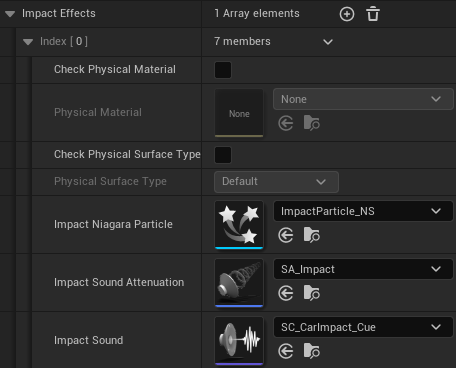
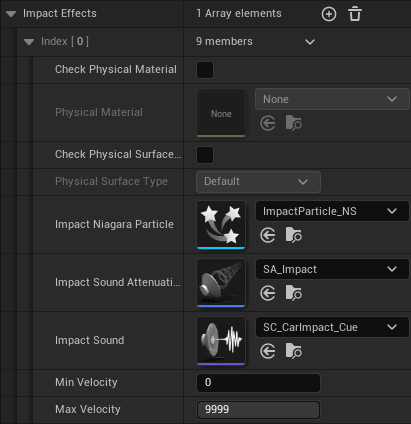
HitZone Event Images, Bugfix, Changelog

diff --git a/docs/guides/mesh-component/settings.md b/docs/guides/mesh-component/settings.md
@@ -157,7 +157,7 @@ This is the minimum velocity ($cm/s$) that's required to trigger a deformation. 
 from "eating into the mesh" when e.g. driving continuously against an object.
 
 ### Impact Effects (V 2.1) {#impact-effects}
-This setting can be used to play a **sound** (SFX) and/or to spawn a *niagara* **particle system** (VFX) on impact. You don't *have to* select a sound and a particle system - if you don't want to play a sound or spawn a particle system then just leave the properties empty or remove the whole impact effect. 
+This setting can be used to play a **sound** (SFX) and/or to spawn one or more *niagara* **particle systems** (VFX) on impact. You don't *have to* select a sound and a particle system - if you don't want to play a sound or spawn a particle system then just leave the properties empty or remove the whole impact effect. 
 
 :::info
 An *impact effect* with ``CheckPhysicalMaterial = False`` and ``CheckPhysicalSurfaceType = False`` (*see image below*) is used as the **default** impact effect, whenever no other impact effect was found for a physical material.
@@ -166,3 +166,9 @@ An *impact effect* with ``CheckPhysicalMaterial = False`` and ``CheckPhysicalSur
 You can define multiple *impact effects*. They are evaluated on impact. We select an impact effect by comparing the physical material of the component that we hit with the specified *physical material* or *physical surface type* of the impact effect.
 
 <img src={ImpactEffect} style={{maxWidth: "50%"}} />
+
+With the new parameters ``Min Velocity`` and ``Max Velocity``, you can set the speeds at which the effect should occur and when it should not.
+
+:::warning Version 2.1.5
+``Min Velocity`` and ``Max Velocity`` are new settings.
+:::

diff --git a/docs/advanced-guides/hit-zone.md b/docs/advanced-guides/hit-zone.md
@@ -12,6 +12,9 @@ import ExampleGroupsHierarchy from './img/hit-zone-ex-groups-hierarchy.png';
 import ExampleGroupsBoxSett from './img/hit-zone-ex-groups-box.png';
 import ExampleGroupsCompSett from './img/hit-zone-ex-groups-comp.png';
 
+import DetectedEvent from './img/hit-zone-detected.png';
+import AlertEvent from './img/hit-zone-alert.png';
+
 <img src={Component} />
 
 A **Hit Zone** can be used to detect hits on predefined areas of your mesh. This could be used for example to detect hits on the front of your vehicle and damage the motor accordingly.
@@ -51,14 +54,16 @@ If you want to use **one** Hit Zone for **multiple** *Deformable Mesh Components
 	- There were 3 hits, one 50% and two 25% hits... and so on.
 
 	Each new hit can add a maximum value of 1.0 (= hit with max hit deform),
-	because the ImpactStrength is capped by the DeformableMeshComponent Setting [Max Hit Deform Percentage](../guides/mesh-component/settings.md#max-hit-deform-percentage).
+	because the ``ImpactStrength`` is capped by the DeformableMeshComponent Setting [Max Hit Deform Percentage](../guides/mesh-component/settings.md#max-hit-deform-percentage).
 
 ## Events
 
 ### On Hit Detected
+<img src={DetectedEvent} />
 This event is triggered whenever a hit is detected inside the hit zone.
 
 ### On Hit Alert
+<img src={AlertEvent} />
 This event is triggered when a given threshold (`Alert Impact Strength`). When configured, it'll only trigger once after the threshold is reached (`Alert once`).
 
 ## Functions

diff --git a/docs/changelog.md b/docs/changelog.md
@@ -98,8 +98,10 @@ This version is not released yet.
 - Bugfixes:
     - The `After Impact` event sometimes triggered *while* the impact happened and not *after* the impact happened.
     - Fixed an issue with RMC in Unreal Engine 5.5 (*only affecting multiplayer games*).
+    - Only one [Impact Effect](guides/mesh-component/settings.md#impact-effects) could be triggered at a time.
 - Optimizations:
     - Only replicate hits that are actually processed. Previously the component sometimes replicated hits, that would not have been processed due to `Impact Registration Interval`.
 - Miscellaneous:
     - New [Before Impact](guides/mesh-component/events.md#before-impact) event that is triggered *before* a hit is processed.
     - Both `After Impact` and `Before Impact` events now include a *Component* parameter (which is the DeformableMeshComponent that triggered the event).
+    - New Settings ``Min Velocity`` and ``Max Velocity`` for [Impact Effect](guides/mesh-component/settings.md#impact-effects).
